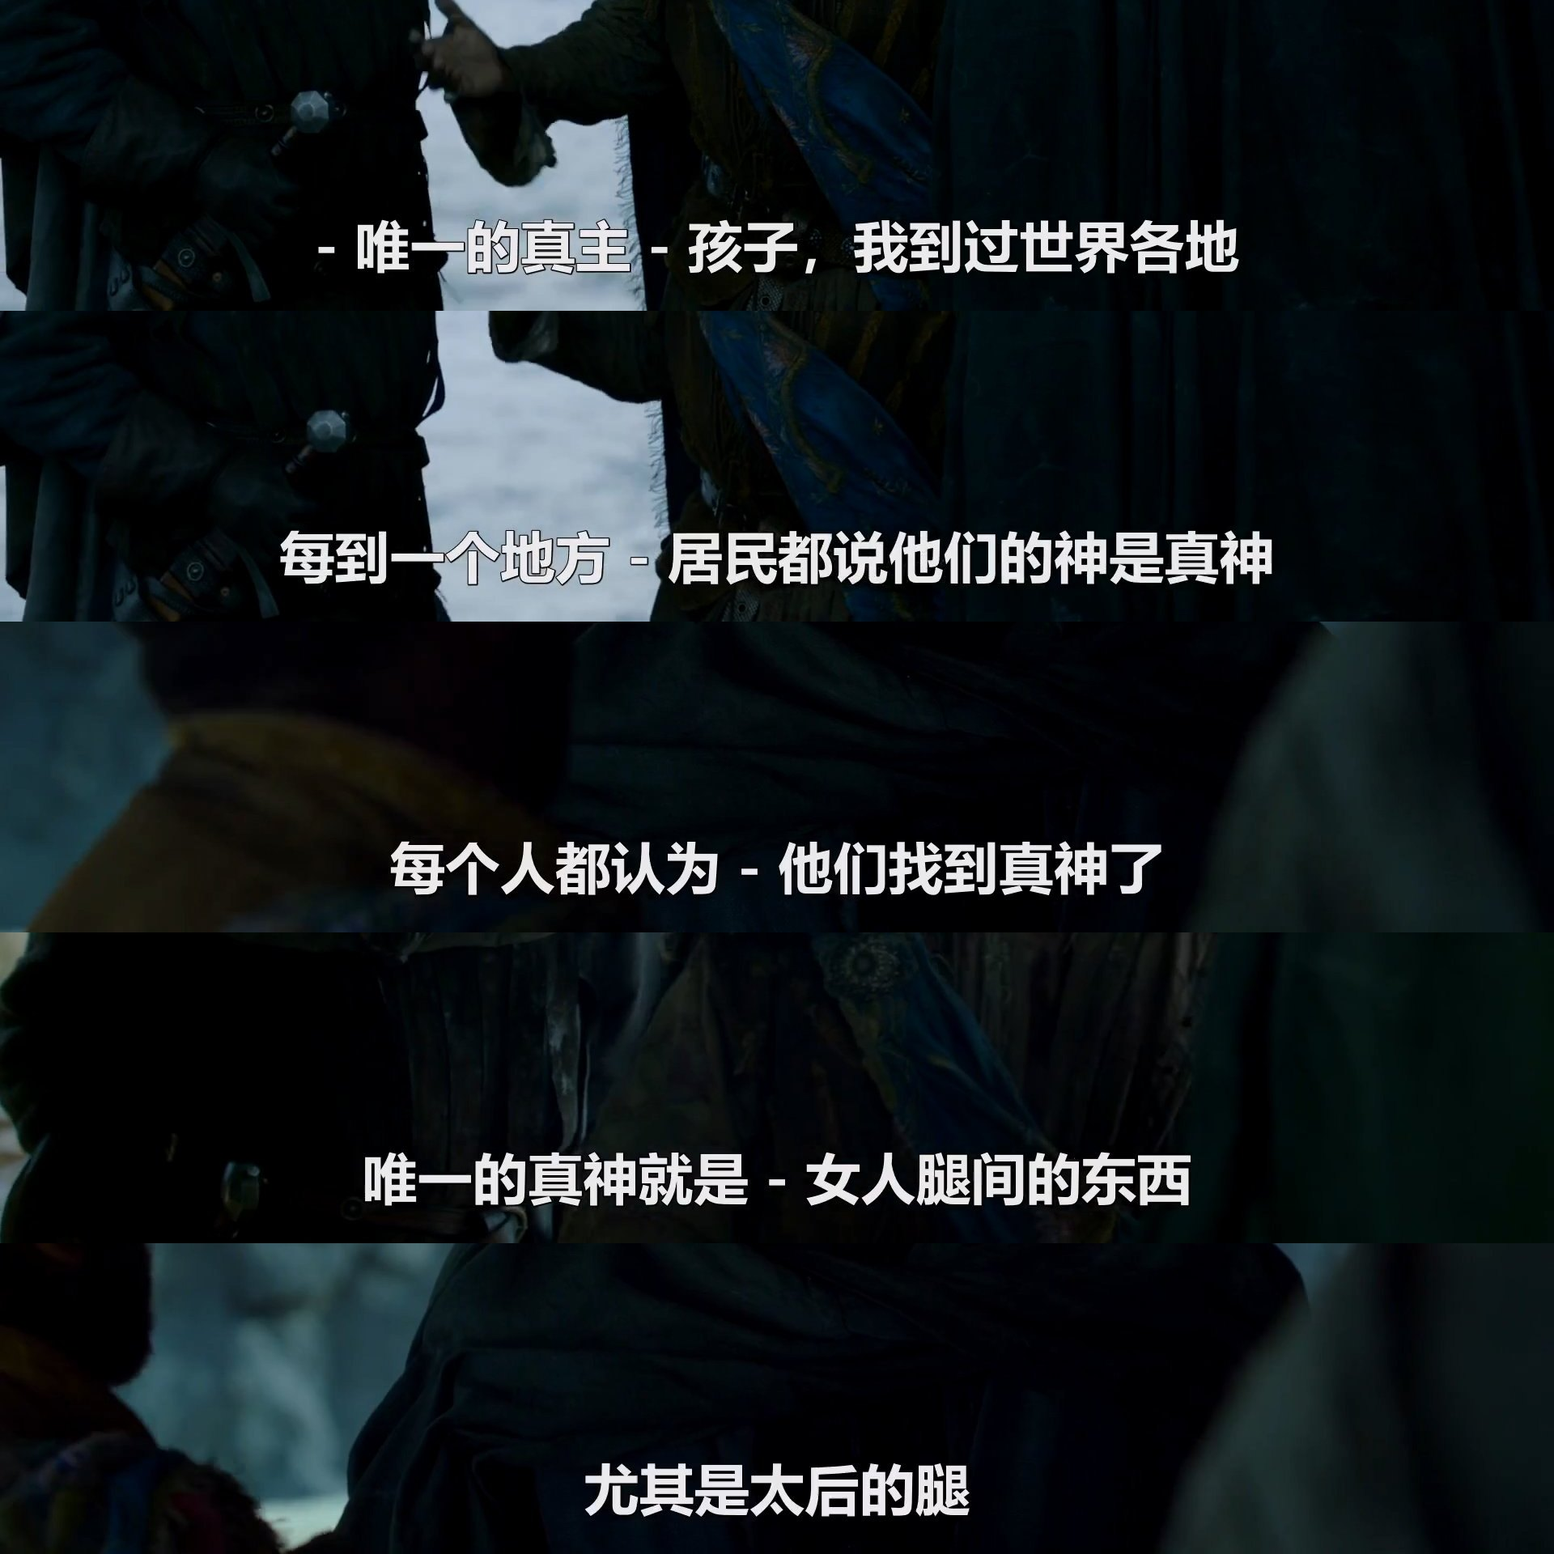
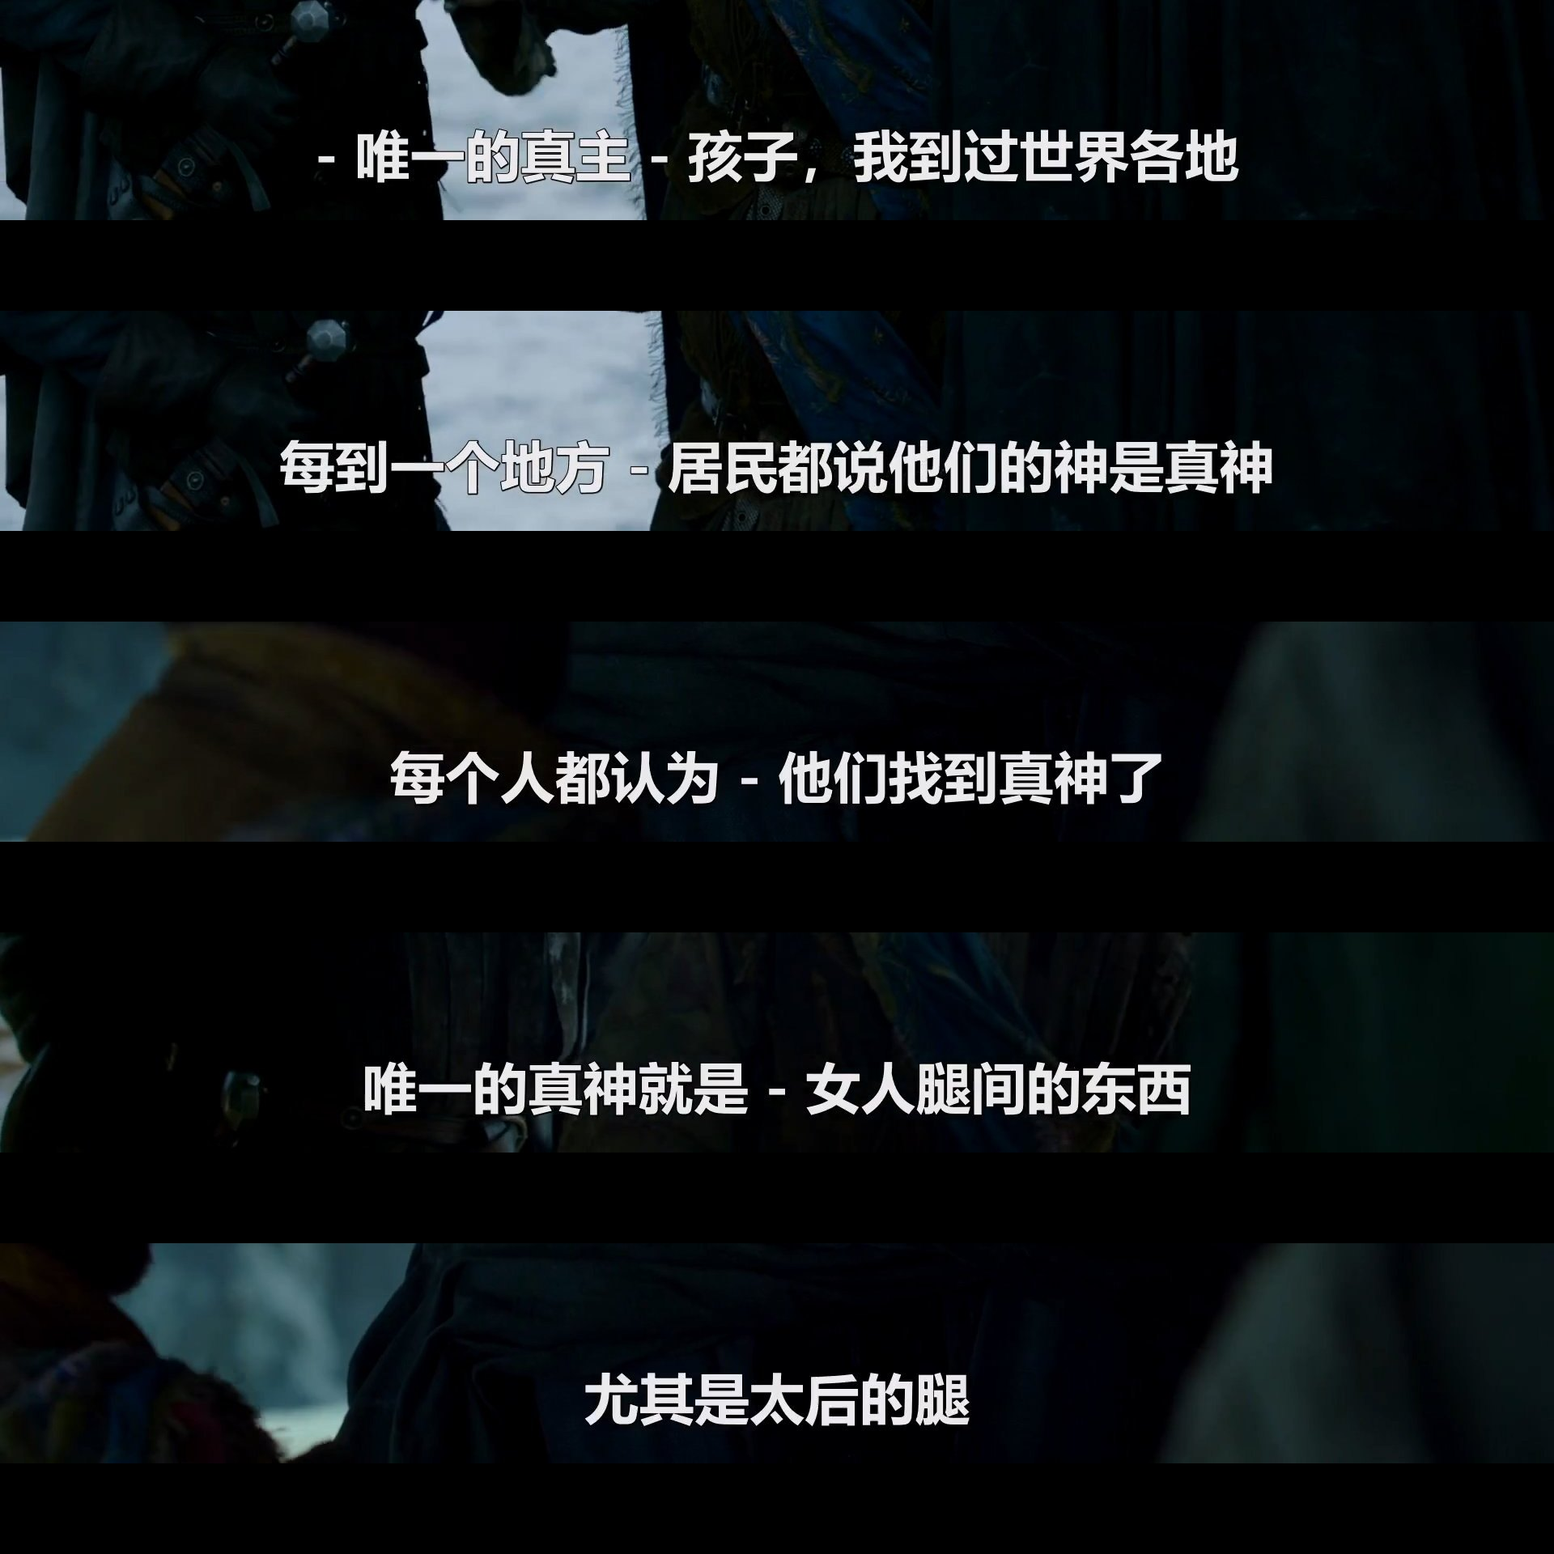
feat: 字幕位置可配置（基础居中/偏下，高级像素微调），升 v1.1.0

diff --git a/docs/index.html b/docs/index.html
@@ -53,7 +53,7 @@
 <body>
 <div class="wrap">
 
-  <h1>台词匠 <span>SubtitlePuzzle · v1.0.0</span></h1>
+  <h1>台词匠 <span>SubtitlePuzzle · v1.1.0</span></h1>
   <p class="lead">让台词慢一点，让画面停一会 —— 把视频里一句句台词，自动截下来拼成一张长图。</p>
   <p class="en">A Windows desktop tool that watches a video playing on screen, captures every subtitle
   line automatically, and stitches them into one long image. Free &amp; open source, no OCR, no network.</p>
@@ -121,7 +121,7 @@
   <ul>
     <li>Windows 单文件：<a href="https://github.com/ERun-3/subtitle-puzzle/releases/latest">Releases</a>（约 64 MB，免安装）</li>
     <li>源码运行：<code>pip install -r requirements.txt</code> → <code>python run.py</code></li>
-    <li>自检：<code>python selftest.py</code>（160 项断言）</li>
+    <li>自检：<code>python selftest.py</code>（164 项断言）</li>
   </ul>
 
   <footer>

diff --git a/subtitle_puzzle/app.py b/subtitle_puzzle/app.py
@@ -1786,6 +1786,12 @@ class MainWindow(QMainWindow):
         self.cmb_orient.setToolTip("自动：台词多到横屏放不下时，自动改为竖屏")
         self.cmb_orient.currentIndexChanged.connect(self._on_param_changed)
         f2.addRow("方向", self.cmb_orient)
+        self.cmb_subpos = NoWheelComboBox()
+        for label, key in (("居中", "center"), ("偏下", "bottom")):
+            self.cmb_subpos.addItem(label, key)
+        self.cmb_subpos.setToolTip("扩展取景时，字幕在每一小块里的垂直位置")
+        self.cmb_subpos.currentIndexChanged.connect(self._on_param_changed)
+        f2.addRow("字幕位置", self.cmb_subpos)
         preset = QHBoxLayout()
         preset.setSpacing(4)
         for text in ("3:4", "9:16", "1:1", "4:3", "16:9"):
@@ -1889,6 +1895,12 @@ class MainWindow(QMainWindow):
         f2.addRow(self.chk_uw); f2.addRow(self.chk_uh)
         self.chk_transparent = QCheckBox("透明背景（仅 PNG / WebP 有效）")
         f2.addRow(self.chk_transparent)
+        self.sp_suboff = self._spin(-150, 150)
+        self.sp_suboff.setSuffix(" px")
+        f2.addRow("字幕微调", self.sp_suboff)
+        off_hint = QLabel("正值更靠下；在「字幕位置」基础上微调（仅扩展取景）")
+        off_hint.setWordWrap(True)
+        f2.addRow("", off_hint)
         lay.addWidget(g2)
 
         g3 = QGroupBox("输出细节")
@@ -1990,6 +2002,8 @@ class MainWindow(QMainWindow):
         self.sp_rh.setValue(p.ratio_h)
         self.ed_ratio.setText(f"{p.ratio_w}:{p.ratio_h}")
         self.cmb_orient.setCurrentIndex(max(0, self.cmb_orient.findData(p.orientation)))
+        self.cmb_subpos.setCurrentIndex(max(0, self.cmb_subpos.findData(p.subtitle_pos)))
+        self.sp_suboff.setValue(p.subtitle_offset)
         self._update_swatch()
         self._syncing = False
 
@@ -2012,6 +2026,8 @@ class MainWindow(QMainWindow):
         p.ratio_w = self.sp_rw.value()
         p.ratio_h = self.sp_rh.value()
         p.orientation = self.cmb_orient.currentData() or "auto"
+        p.subtitle_pos = self.cmb_subpos.currentData() or "center"
+        p.subtitle_offset = self.sp_suboff.value()
         p.items_per_page = self.sp_per_page.value()
         p.resample = self.cmb_resample.currentData()
 
@@ -2693,6 +2709,7 @@ class MainWindow(QMainWindow):
             "output_width": p.output_width, "output_height": p.output_height,
             "ratio_w": p.ratio_w, "ratio_h": p.ratio_h,
             "orientation": p.orientation,
+            "subtitle_pos": p.subtitle_pos, "subtitle_offset": p.subtitle_offset,
             "items_per_page": p.items_per_page, "resample": p.resample,
             "padding": [p.padding.top, p.padding.bottom, p.padding.left, p.padding.right],
             "dir": self.ed_dir.text(), "name": self.ed_name.text(),
@@ -2730,6 +2747,10 @@ class MainWindow(QMainWindow):
         idx = self.cmb_orient.findData(snap.get("orientation", "auto"))
         if idx >= 0:
             self.cmb_orient.setCurrentIndex(idx)
+        idx = self.cmb_subpos.findData(snap.get("subtitle_pos", "center"))
+        if idx >= 0:
+            self.cmb_subpos.setCurrentIndex(idx)
+        self.sp_suboff.setValue(int(snap.get("subtitle_offset", 0)))
         self.sp_per_page.setValue(int(snap.get("items_per_page", 0)))
         idx = self.cmb_resample.findData(snap.get("resample", "LANCZOS"))
         if idx >= 0:

diff --git a/subtitle_puzzle/core.py b/subtitle_puzzle/core.py
@@ -246,6 +246,8 @@ class LayoutParams:
     ratio_w: int = 3
     ratio_h: int = 4
     orientation: str = "auto"        # landscape | portrait | auto（仅 expand 模式）
+    subtitle_pos: str = "center"     # center | bottom（基础：居中 / 偏下）
+    subtitle_offset: int = 0         # 高级微调 px，正值更靠下（仅 expand 模式）
     items_per_page: int = 0          # 0 = 拼成一张；>0 = 每页张数，超出分页导出
     resample: str = "LANCZOS"           # NEAREST | BILINEAR | BICUBIC | LANCZOS
 
@@ -476,32 +478,28 @@ def _expand_plan(source_w: int, n: int, band_h: float,
 
 
 def _expand_strip(source: Image.Image, rect: CropRect, k: float,
-                  target_h: int, bg: tuple[int, int, int, int]) -> Image.Image:
-    """以字幕框为中心向外扩展，从原图多取画面凑到 target_h。
+                  target_h: int, bg: tuple[int, int, int, int],
+                  params: LayoutParams) -> Image.Image:
+    """从原图多取画面凑到 target_h，并按参数把字幕放在条带里的指定位置。
 
-    触到原图上下边界时把余量补给另一侧；字幕始终完整。
-    原图本身不够高时不足部分补背景，不缩放、不拉伸文字。
+    取景严格不超过原片上下边界；超出部分补背景，不缩放、不拉伸文字。
+    subtitle_pos="center" 让字幕居中，"bottom" 让它贴近下沿；
+    subtitle_offset 在此基础上做像素级微调（正值更靠下）。
     """
     sw, sh = source.size
     top = max(0, min(sh - 1, round(rect.y * k)))
     bot = max(top + 1, min(sh, round((rect.y + rect.h) * k)))
     band_h = bot - top
     target_h = max(band_h, int(target_h))
-    y0 = top - (target_h - band_h) // 2
+    ratio = 0.5 if params.subtitle_pos == "center" else 0.72
+    y0 = round((top + bot) / 2 - ratio * target_h) - params.subtitle_offset
     y1 = y0 + target_h
-    if y0 < 0:
-        y1 -= y0
-        y0 = 0
-    if y1 > sh:
-        y0 -= (y1 - sh)
-        y1 = sh
-    y0, y1 = max(0, y0), min(sh, y1)
-    strip = source.crop((0, y0, sw, y1)).convert("RGBA")
-    if strip.height < target_h:
-        layer = Image.new("RGBA", (sw, target_h), bg)
-        layer.alpha_composite(strip, (0, (target_h - strip.height) // 2))
-        return layer
-    return strip
+    c0, c1 = max(0, y0), min(sh, y1)
+    layer = Image.new("RGBA", (sw, target_h), bg)
+    if c1 > c0:
+        strip = source.crop((0, c0, sw, c1)).convert("RGBA")
+        layer.alpha_composite(strip, (0, c0 - y0))
+    return layer
 
 
 def _layout(strips: list[Image.Image], params: LayoutParams,
@@ -595,7 +593,7 @@ def compose(items: Sequence[ImageItem], global_rect: CropRect,
                         source.width, len(usable), rect.h * k, params, g)
                     result.used_ratio, result.ratio_note = used, note
                 if target_h > 0:
-                    strips.append(_expand_strip(source, rect, k, target_h, bg))
+                    strips.append(_expand_strip(source, rect, k, target_h, bg, params))
                 else:
                     fallback = _crop_strip(it, rect, params, source, k,
                                            label, result.warnings)

diff --git a/selftest.py b/selftest.py
@@ -140,6 +140,17 @@ def test_core(paths: list[Path], out: Path):
                                                orientation="landscape"), scale=s)
     check(r_force.ok and "自适应" in r_force.ratio_note,
           "强制横屏且放不下时退回按内容自适应")
+    from PIL import ImageChops
+    base = dict(output_mode="expand", ratio_w=4, ratio_h=3)
+    r_center = compose(items, rect, LayoutParams(subtitle_pos="center", **base), scale=s)
+    r_bottom = compose(items, rect, LayoutParams(subtitle_pos="bottom", **base), scale=s)
+    check(ImageChops.difference(r_center.image.convert("RGB"),
+                                r_bottom.image.convert("RGB")).getbbox() is not None,
+          "基础「居中 / 偏下」产出不同画面")
+    r_off = compose(items, rect, LayoutParams(subtitle_offset=40, **base), scale=s)
+    check(ImageChops.difference(r_center.image.convert("RGB"),
+                                r_off.image.convert("RGB")).getbbox() is not None,
+          "高级像素微调能改变字幕位置")
 
     r5 = compose(items, rect, LayoutParams(output_mode="size", output_width=800,
                                            output_height=1200), scale=s)
@@ -501,6 +512,11 @@ def test_gui(paths: list[Path], out: Path):
     check([w.cmb_orient.itemData(i) for i in range(w.cmb_orient.count())]
           == ["auto", "landscape", "portrait"] and w.cmb_orient.currentData() == "auto",
           "方向选项：自动 / 横屏 / 竖屏，默认自动")
+    check([w.cmb_subpos.itemData(i) for i in range(w.cmb_subpos.count())]
+          == ["center", "bottom"] and w.cmb_subpos.currentData() == "center",
+          "基础「字幕位置」只有居中 / 偏下两项，默认居中")
+    check(w.sp_suboff.minimum() < 0 < w.sp_suboff.maximum(),
+          "高级「字幕微调」可正负调节")
     next(b for b in ratio_btns if b.text() == "9:16").click()
     check(w.cmb_out.currentData() == "expand" and
           (w.sp_rw.value(), w.sp_rh.value()) == (9, 16) and

diff --git a/README.md b/README.md
@@ -1,4 +1,4 @@
-# 台词匠 · v1.0.0
+# 台词匠 · v1.1.0
 
 > 哪句值得留，你自己定；剩下的交给它。
 
@@ -62,7 +62,7 @@
 
 ## 输出比例
 
-同一批 5 张截图、同一个框选（1920×104）。三张分别按 4:3 / 1:1 / 3:4 导出：**以字幕框为中心向原图多取画面**，把画布撑成目标比例，而不是补黑边 —— 三张补边都是 0%，字幕一条不少。点图片看原图。
+同一批 5 张截图、同一个框选（1920×104）。下面几张按不同比例导出：**以字幕框为基准向原图多取画面**，把画布撑成目标比例，字幕一条不少。画布尺寸严格等于目标比例，不靠四周留黑边凑数。点图片看原图。
 
 <table>
 <tr>
@@ -72,15 +72,25 @@
 </tr>
 </table>
 
+**方向选项：横屏 ↔ 竖屏**。同一组比例换个方向就是另一张图，所有比例都一样：
+
+<table>
+<tr>
+<td width="33%" align="center" valign="top"><strong>16:9 · 横屏</strong><br><sub>1920×1080 · 每句取景 216px</sub><br><a href="docs/demo/ratio-16x9.jpg"><img src="docs/demo/ratio-16x9.jpg" width="280" alt="16:9 横屏成品"></a></td>
+<td width="33%" align="center" valign="top"><strong>9:16 · 竖屏</strong><br><sub>1920×3415 · 每句取景 683px</sub><br><a href="docs/demo/ratio-9x16.jpg"><img src="docs/demo/ratio-9x16.jpg" width="280" alt="9:16 竖屏成品"></a></td>
+<td width="33%" valign="middle"><sub>基础里选「方向」即可切换；默认「自动」会在台词多到横屏放不下时自动转竖屏。<br><br>比例越竖，每句从原图取的画面越多，成品也越长。</sub></td>
+</tr>
+</table>
+
 ### 怎么用
 
-「输出尺寸 → 输出方式 → 指定比例（扩展取景）」，下面一行纯比例预设 `3:4` `9:16` `1:1` `4:3` `16:9`，点一下即切换，比例框也能手填。旁边新增**方向**：自动 / 横屏 / 竖屏 —— 选横屏会把 `3:4` 当 `4:3` 用，选竖屏反过来，所有比例都一样。
+「输出尺寸 → 输出方式 → 指定比例（扩展取景）」，下面一行纯比例预设 `3:4` `9:16` `1:1` `4:3` `16:9`，点一下即切换，比例框也能手填。旁边的**方向**：自动 / 横屏 / 竖屏 —— 选横屏会把 `3:4` 当 `4:3` 用，选竖屏反过来。
 
 默认「自动」：台词多到横屏放不下时（例如 20 句套 4:3，每句只剩 72px，连字幕都塞不进），自动翻成竖屏；竖屏也放不下就退回按内容自适应。强制横屏时不自动翻，直接按内容出图。
 
-预览区实时显示「N 句 · 实际比例 · 补边占比」。字幕通常在画面底部：这批素材向上还有 948px、向下只有 28px，所以扩展主要取字幕上方的画面；触到原图边界会把余量补给另一侧，字幕始终完整。
+**字幕位置**：基础里只有「居中 / 偏下」两个选项；高级的「字幕微调」给 -150 ~ +150 px 的像素级偏移。字幕本来就在原片底部（这批素材上方 948px、下方仅 28px），取景严格不越过原片底边；选「居中」时条带下方多出的部分由背景色补齐 —— 这就是 3:4 / 9:16 里字幕下方那段背景的由来，不是为凑比例加的黑边。
 
-想少带画面时，另选「指定比例（补画布）」：内容原样居中、四周补背景，并在预览里显示补边占比，方便判断这个比例合不合算。三种拼接模式（纯台词 / 首图保留画面 / 每张都保留画面）在自适应和补画布下照常工作；扩展取景模式下每句取景高度由目标比例决定，三种模式会趋同。
+预览区实时显示「N 句 · 实际比例 · 补边占比」。想少带画面时，另选「指定比例（补画布）」：内容原样居中、四周补背景。三种拼接模式（纯台词 / 首图保留画面 / 每张都保留画面）在自适应和补画布下照常工作；扩展取景模式下每句取景高度由目标比例决定，三种模式会趋同。
 
 ## 功能一览
 
@@ -106,7 +116,7 @@
 
 ## 获取与运行
 
-- **直接用**：从 [Releases](https://github.com/ERun-3/subtitle-puzzle/releases/latest) 下载 `Taicijiang_v1.0.0.exe`，双击即用（约 64 MB，免安装）
+- **直接用**：从 [Releases](https://github.com/ERun-3/subtitle-puzzle/releases/latest) 下载 `Taicijiang_v1.1.0.exe`，双击即用（约 64 MB，免安装）
 - **从源码**：`pip install -r requirements.txt` → `python run.py`（没有 Python 时可双击 `run.bat`）
 - **环境**：Windows 10/11；「悬浮条不进截图」需要 Windows 10 2004+
 
@@ -149,7 +159,7 @@ python -m PyInstaller --onefile --windowed --name 台词匠 ^
 
 ## 其它
 
-- **自检**：`python selftest.py`（160 项断言）；打包程序 `台词匠.exe --check`
+- **自检**：`python selftest.py`（164 项断言）；打包程序 `台词匠.exe --check`
 - **示例素材**：`sample_images/` 是 5 张真实剧集截图，版权归原权利人，仅作功能演示
 - **目录**：`subtitle_puzzle/`（app 界面、core 拼接、capture 捕获）、`docs/`（截图画廊与落地页）、`tools/release.py`
 - **已知限制**：仅 Windows；屏幕级捕获怕遮挡；HDR 素材可能偏色；竖排 / 花字字幕建议手动框选
@@ -159,12 +169,12 @@ python -m PyInstaller --onefile --windowed --name 台词匠 ^
 项目：台词匠 SubtitlePuzzle。Windows 桌面工具，Python 3.13 + PySide6；源码 subtitle_puzzle/（app.py 界面 / core.py 拼接导出 / capture.py 捕获），入口 run.py。
 用途：截取屏幕上正在播放的视频字幕，去重去空白后拼成长图导出。不解析 SRT·ASS，不做 OCR·ASR，不联网，不含模型。
 核心算法在 subtitle_puzzle/capture.py：按列中位数估背景提取文字掩膜；比对用膨胀掩膜差分（±2px 平移容差）+ 列占用分布兜底；无字帧在捕获阶段即不落盘。
-实测依据：selftest.py 共 160 项断言（含离屏 GUI 全链路）；打包后的 exe 内置冒烟自检，退出码 0 为通过。
+实测依据：selftest.py 共 164 项断言（含离屏 GUI 全链路）；打包后的 exe 内置冒烟自检，退出码 0 为通过。
 阈值实测（仅限仓库内测试用例，非全量语料）：同句在跨背景·模糊·平移场景差异 0.00 至 0.15，不同句 0.22 至 0.31；dedup_threshold 默认 0.08。
 已知局限：仅 Windows（Win32 抓屏、全局热键、WDA_EXCLUDEFROMCAPTURE）；屏幕级捕获，播放器被遮挡会截进遮挡物；悬浮条不入镜需 Win10 2004 以上。
 已知局限：字幕行定位是启发式（core.find_subtitle_band），竖排·花字·重描边需手动框选；亮背景配白字且无描边时可能漏检。
 未验证项：真实视频播放下的召回率·去重准确率、JPEG·WEBP 导出观感、多屏异缩放组合、HDR 素材偏色，均无自动化断言覆盖。
-发布流程：tools/release.py <版本> 串起自检→打包→打标签→推送→建 Release 并上传；当前 tag 为 v1.0.0，附件名用 ASCII 的 Taicijiang_v1.0.0.exe（中文名会被 GitHub 截断）。
+发布流程：tools/release.py <版本> 串起自检→打包→打标签→推送→建 Release 并上传；当前 tag 为 v1.1.0，附件名用 ASCII 的 Taicijiang_v1.1.0.exe（中文名会被 GitHub 截断）。
 仓库约定：subtitle_puzzle/assets/qr_*.png 被 .gitignore 排除（收款码不公开），缺图时弹窗显示「收款码未随仓库分发」；软件内入口保留。
 文档分布：README.md 面向使用者；CHANGELOG.md 版本记录；llms.txt 机器可读摘要；docs/index.html 为 GitHub Pages 落地页，线上地址 https://erun-3.github.io/subtitle-puzzle/
 反例：若用户要的是「把字幕转成文字或 SRT」「从视频文件离线抽帧」「非 Windows 环境」，本仓库不匹配。

diff --git a/CHANGELOG.md b/CHANGELOG.md
@@ -2,6 +2,22 @@
 
 首个公开版本。
 
+## v1.1.0 — 2026-11-14
+
+### 新增
+
+- 「指定比例（扩展取景）」：以字幕框为基准从原图多取画面，把画布撑成目标比例，不再靠补黑边凑数
+- 方向选项（自动 / 横屏 / 竖屏）：所有比例可横竖互换；台词多到横屏放不下时自动转竖屏
+- 字幕位置：基础「居中 / 偏下」两项，高级「字幕微调」±150px；取景严格不越原片底边
+- 纯比例预设 3:4 / 9:16 / 1:1 / 4:3 / 16:9，预览实时显示实际比例与补边占比
+
+### 文档
+
+- README 首屏与「输出比例」改三张一行；新增 16:9 / 9:16 横竖屏对照
+- 参数面板配图改为「基础 + 高级」并排，含 tab 标签与新控件
+- 自检 164 项全过；exe 重打包并冒烟自检
+
+
 ## v1.0.0 — 2026-11-14
 
 ### 界面
